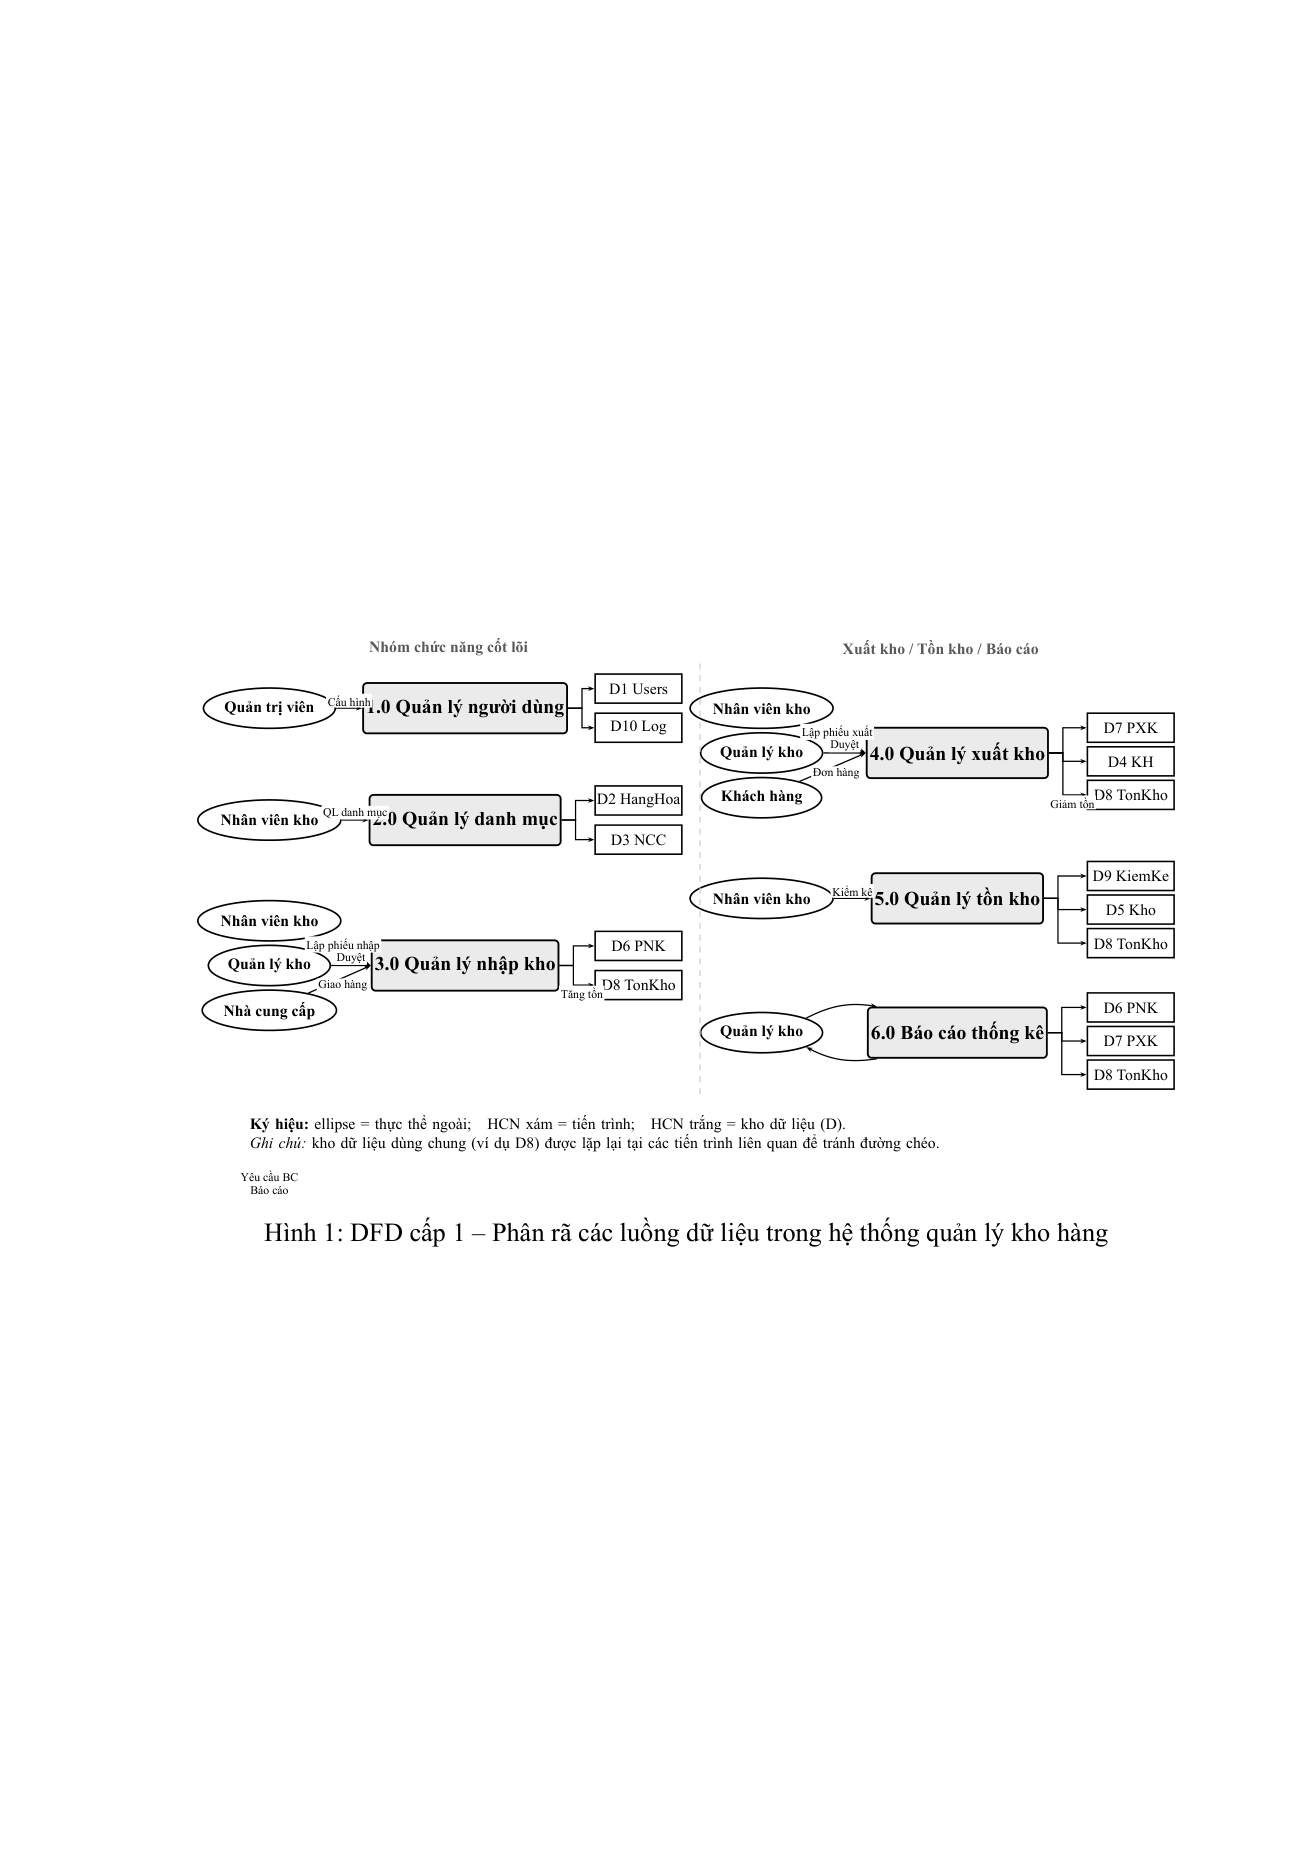
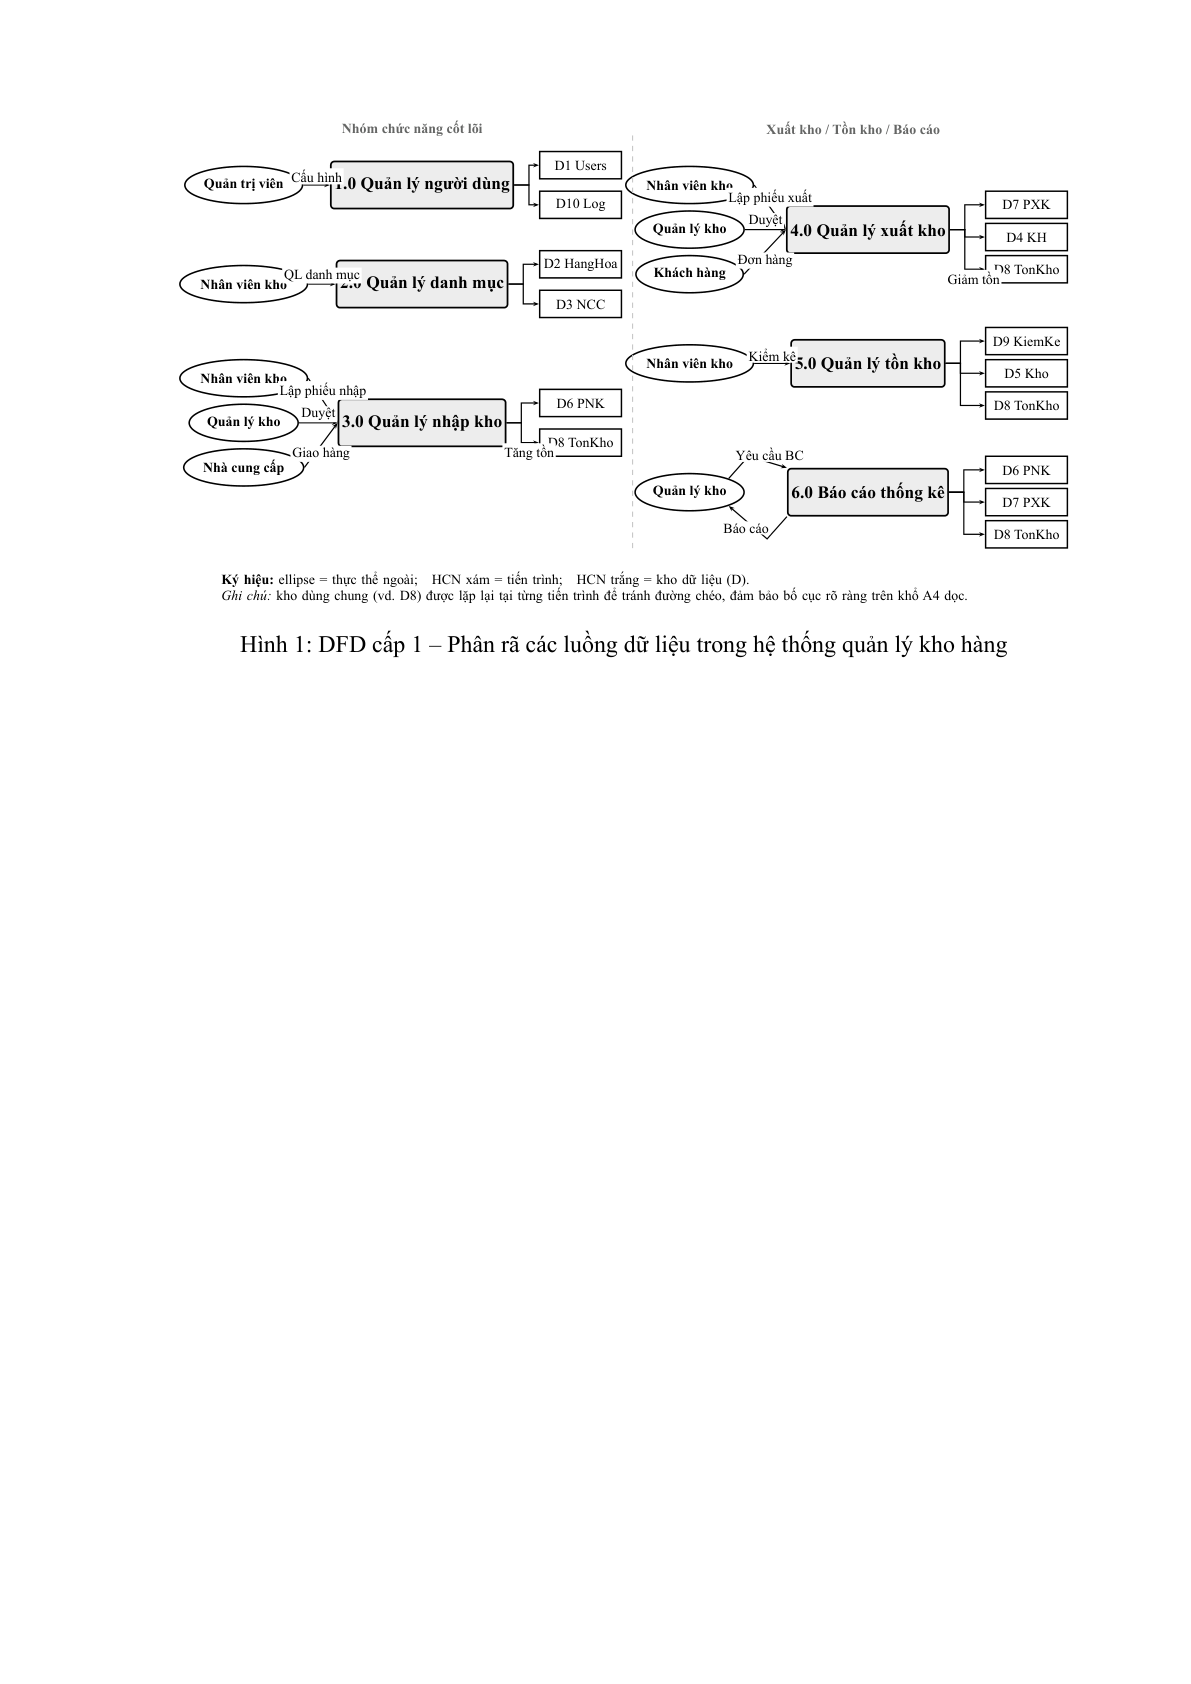
Cập nhật layout DFD Level 1 - tối ưu khoảng cách và căn chỉnh, loại bỏ vertical centering trong wrapper PDF, điều chỉnh font size và spacing cho rõ ràng hơn trên khổ A4 dọc

diff --git a/VIII.HUST/Phân tích và thiết kế hệ thống/BaoCao/diagrams/tex/3.3_dfd_level1.tex b/VIII.HUST/Phân tích và thiết kế hệ thống/BaoCao/diagrams/tex/3.3_dfd_level1.tex
@@ -1,122 +1,121 @@
 \begin{figure}[H]
 \centering
-% Giới hạn theo chiều rộng A4; bố cục 2 cột nên chiều cao vừa một trang
 \resizebox{0.98\textwidth}{!}{%
 \begin{tikzpicture}[
     entity/.style={
-        ellipse, draw=black, fill=white, line width=0.85pt,
-        minimum width=1.9cm, minimum height=0.72cm,
-        font=\scriptsize\bfseries, align=center, inner sep=0.8pt
+        ellipse, draw=black, fill=white, line width=0.9pt,
+        minimum width=2.0cm, minimum height=0.75cm,
+        font=\scriptsize\bfseries, align=center, inner sep=1pt
     },
     process/.style={
-        rectangle, draw=black, fill=gray!15, line width=0.95pt,
-        minimum width=2.9cm, minimum height=0.9cm,
-        font=\footnotesize\bfseries, align=center, rounded corners=2pt, inner sep=1.5pt
+        rectangle, draw=black, fill=gray!14, line width=1.0pt,
+        minimum width=3.0cm, minimum height=0.95cm,
+        font=\footnotesize\bfseries, align=center, rounded corners=2pt, inner sep=2pt
     },
     store/.style={
-        rectangle, draw=black, fill=white, line width=0.8pt,
-        minimum width=1.55cm, minimum height=0.52cm,
-        font=\scriptsize, align=center, inner sep=0.8pt
+        rectangle, draw=black, fill=white, line width=0.85pt,
+        minimum width=1.65cm, minimum height=0.55cm,
+        font=\scriptsize, align=center, inner sep=1pt
     },
-    flow/.style={-{Stealth[scale=0.55]}, line width=0.65pt},
-    elabel/.style={font=\tiny, fill=white, inner sep=0.8pt, align=center},
-    coltitle/.style={font=\scriptsize\bfseries, text=black!65}
+    flow/.style={-{Stealth[scale=0.55]}, line width=0.7pt},
+    elabel/.style={font=\scriptsize, fill=white, inner sep=1pt, align=center},
+    coltitle/.style={font=\scriptsize\bfseries, text=black!60}
 ]
 
 %======================================================================
-% DFD cấp 1 – 2 CỘT × 3 HÀNG (vừa A4 dọc, không chồng chéo)
-% Mỗi khối: Thực thể → Tiến trình → Kho DL
+% DFD cấp 1 – 2 CỘT (vừa A4 dọc, chữ rõ, không chồng)
+% Cấu trúc mỗi khối: Thực thể → Tiến trình → Kho dữ liệu
 %======================================================================
 
-%========== CỘT TRÁI: 1.0 – 2.0 – 3.0 ==========
-\node[coltitle] at (3.2, 9.6) {Nhóm chức năng cốt lõi};
+%===== CỘT TRÁI: 1.0 – 2.0 – 3.0 =====
+\node[coltitle] at (3.8, 10.15) {Nhóm chức năng cốt lõi};
 
-%--- 1.0 ---
-\node[entity]  (e1)  at (0.0, 8.5) {Quản trị viên};
-\node[process] (p1)  at (3.5, 8.5) {1.0 Quản lý người dùng};
-\node[store]   (d1)  at (6.6, 8.85) {D1 Users};
-\node[store]   (d10) at (6.6, 8.15) {D10 Log};
+% 1.0
+\node[entity]  (e1)  at (0.0, 9.0) {Quản trị viên};
+\node[process] (p1)  at (4.0, 9.0) {1.0 Quản lý người dùng};
+\node[store]   (d1)  at (7.3, 9.40) {D1 Users};
+\node[store]   (d10) at (7.3, 8.60) {D10 Log};
 \draw[flow] (e1) -- (p1) node[elabel, midway, above] {Cấu hình};
-\draw[flow] (p1.east) -- ++(0.25,0) |- (d1.west);
-\draw[flow] (p1.east) -- ++(0.25,0) |- (d10.west);
+\draw[flow] (p1.east) -- ++(0.3,0) |- (d1.west);
+\draw[flow] (p1.east) -- ++(0.3,0) |- (d10.west);
 
-%--- 2.0 ---
-\node[entity]  (e2) at (0.0, 6.5) {Nhân viên kho};
-\node[process] (p2) at (3.5, 6.5) {2.0 Quản lý danh mục};
-\node[store]   (d2) at (6.6, 6.85) {D2 HangHoa};
-\node[store]   (d3) at (6.6, 6.15) {D3 NCC};
+% 2.0
+\node[entity]  (e2) at (0.0, 7.0) {Nhân viên kho};
+\node[process] (p2) at (4.0, 7.0) {2.0 Quản lý danh mục};
+\node[store]   (d2) at (7.3, 7.40) {D2 HangHoa};
+\node[store]   (d3) at (7.3, 6.60) {D3 NCC};
 \draw[flow] (e2) -- (p2) node[elabel, midway, above] {QL danh mục};
-\draw[flow] (p2.east) -- ++(0.25,0) |- (d2.west);
-\draw[flow] (p2.east) -- ++(0.25,0) |- (d3.west);
+\draw[flow] (p2.east) -- ++(0.3,0) |- (d2.west);
+\draw[flow] (p2.east) -- ++(0.3,0) |- (d3.west);
 
-%--- 3.0 ---
-\node[entity]  (e3a) at (0.0, 4.7) {Nhân viên kho};
-\node[entity]  (e3b) at (0.0, 3.9) {Quản lý kho};
-\node[entity]  (e3c) at (0.0, 3.1) {Nhà cung cấp};
-\node[process] (p3)  at (3.5, 3.9) {3.0 Quản lý nhập kho};
-\node[store]   (d6)  at (6.6, 4.25) {D6 PNK};
-\node[store]   (d8a) at (6.6, 3.55) {D8 TonKho};
-\draw[flow] (e3a) -- (p3.west) node[elabel, pos=0.55, above] {Lập phiếu nhập};
-\draw[flow] (e3b) -- (p3)        node[elabel, midway, above] {Duyệt};
-\draw[flow] (e3c) -- (p3.west)   node[elabel, pos=0.55, below] {Giao hàng};
-\draw[flow] (p3.east) -- ++(0.25,0) |- (d6.west);
-\draw[flow] (p3.east) -- ++(0.25,0) |- (d8a.west)
-    node[elabel, pos=0.7, below] {Tăng tồn};
+% 3.0
+\node[entity]  (e3a) at (0.0, 5.1) {Nhân viên kho};
+\node[entity]  (e3b) at (0.0, 4.2) {Quản lý kho};
+\node[entity]  (e3c) at (0.0, 3.3) {Nhà cung cấp};
+\node[process] (p3)  at (4.0, 4.2) {3.0 Quản lý nhập kho};
+\node[store]   (d6)  at (7.3, 4.60) {D6 PNK};
+\node[store]   (d8a) at (7.3, 3.80) {D8 TonKho};
+\draw[flow] (e3a.east) -- (p3.west) node[elabel, pos=0.45, above] {Lập phiếu nhập};
+\draw[flow] (e3b) -- (p3)             node[elabel, midway, above] {Duyệt};
+\draw[flow] (e3c.east) -- (p3.west)   node[elabel, pos=0.45, below] {Giao hàng};
+\draw[flow] (p3.east) -- ++(0.3,0) |- (d6.west);
+\draw[flow] (p3.east) -- ++(0.3,0) |- (d8a.west)
+    node[elabel, pos=0.65, below] {Tăng tồn};
 
-%========== CỘT PHẢI: 4.0 – 5.0 – 6.0 ==========
-\node[coltitle] at (12.0, 9.6) {Xuất kho / Tồn kho / Báo cáo};
+%===== CỘT PHẢI: 4.0 – 5.0 – 6.0 =====
+\node[coltitle] at (13.0, 10.15) {Xuất kho / Tồn kho / Báo cáo};
 
-%--- 4.0 ---
-\node[entity]  (e4a) at (8.8, 8.5) {Nhân viên kho};
-\node[entity]  (e4b) at (8.8, 7.7) {Quản lý kho};
-\node[entity]  (e4c) at (8.8, 6.9) {Khách hàng};
-\node[process] (p4)  at (12.3, 7.7) {4.0 Quản lý xuất kho};
-\node[store]   (d7)  at (15.4, 8.15) {D7 PXK};
-\node[store]   (d4)  at (15.4, 7.55) {D4 KH};
-\node[store]   (d8b) at (15.4, 6.95) {D8 TonKho};
-\draw[flow] (e4a) -- (p4.west) node[elabel, pos=0.55, above] {Lập phiếu xuất};
-\draw[flow] (e4b) -- (p4)       node[elabel, midway, above] {Duyệt};
-\draw[flow] (e4c) -- (p4.west)  node[elabel, pos=0.55, below] {Đơn hàng};
-\draw[flow] (p4.east) -- ++(0.25,0) |- (d7.west);
-\draw[flow] (p4.east) -- ++(0.25,0) |- (d4.west);
-\draw[flow] (p4.east) -- ++(0.25,0) |- (d8b.west)
-    node[elabel, pos=0.7, below] {Giảm tồn};
+% 4.0
+\node[entity]  (e4a) at (9.5, 9.0) {Nhân viên kho};
+\node[entity]  (e4b) at (9.5, 8.1) {Quản lý kho};
+\node[entity]  (e4c) at (9.5, 7.2) {Khách hàng};
+\node[process] (p4)  at (13.5, 8.1) {4.0 Quản lý xuất kho};
+\node[store]   (d7)  at (16.8, 8.60) {D7 PXK};
+\node[store]   (d4)  at (16.8, 7.95) {D4 KH};
+\node[store]   (d8b) at (16.8, 7.30) {D8 TonKho};
+\draw[flow] (e4a.east) -- (p4.west) node[elabel, pos=0.45, above] {Lập phiếu xuất};
+\draw[flow] (e4b) -- (p4)            node[elabel, midway, above] {Duyệt};
+\draw[flow] (e4c.east) -- (p4.west)  node[elabel, pos=0.45, below] {Đơn hàng};
+\draw[flow] (p4.east) -- ++(0.3,0) |- (d7.west);
+\draw[flow] (p4.east) -- ++(0.3,0) |- (d4.west);
+\draw[flow] (p4.east) -- ++(0.3,0) |- (d8b.west)
+    node[elabel, pos=0.65, below] {Giảm tồn};
 
-%--- 5.0 ---
-\node[entity]  (e5) at (8.8, 5.1) {Nhân viên kho};
-\node[process] (p5) at (12.3, 5.1) {5.0 Quản lý tồn kho};
-\node[store]   (d9) at (15.4, 5.50) {D9 KiemKe};
-\node[store]   (d5) at (15.4, 4.90) {D5 Kho};
-\node[store]   (d8c) at (15.4, 4.30) {D8 TonKho};
+% 5.0
+\node[entity]  (e5) at (9.5, 5.4) {Nhân viên kho};
+\node[process] (p5) at (13.5, 5.4) {5.0 Quản lý tồn kho};
+\node[store]   (d9) at (16.8, 5.85) {D9 KiemKe};
+\node[store]   (d5) at (16.8, 5.20) {D5 Kho};
+\node[store]   (d8c) at (16.8, 4.55) {D8 TonKho};
 \draw[flow] (e5) -- (p5) node[elabel, midway, above] {Kiểm kê};
-\draw[flow] (p5.east) -- ++(0.25,0) |- (d9.west);
-\draw[flow] (p5.east) -- ++(0.25,0) |- (d5.west);
-\draw[flow] (p5.east) -- ++(0.25,0) |- (d8c.west);
+\draw[flow] (p5.east) -- ++(0.3,0) |- (d9.west);
+\draw[flow] (p5.east) -- ++(0.3,0) |- (d5.west);
+\draw[flow] (p5.east) -- ++(0.3,0) |- (d8c.west);
 
-%--- 6.0 ---
-\node[entity]  (e6) at (8.8, 2.7) {Quản lý kho};
-\node[process] (p6) at (12.3, 2.7) {6.0 Báo cáo thống kê};
-\node[store]   (d6b) at (15.4, 3.15) {D6 PNK};
-\node[store]   (d7b) at (15.4, 2.55) {D7 PXK};
-\node[store]   (d8d) at (15.4, 1.95) {D8 TonKho};
-\draw[flow] (e6) to[bend left=18] (p6)
-    node[elabel, pos=0.55, above] {Yêu cầu BC};
-\draw[flow] (p6) to[bend left=18] (e6)
-    node[elabel, pos=0.55, below] {Báo cáo};
-\draw[flow] (p6.east) -- ++(0.25,0) |- (d6b.west);
-\draw[flow] (p6.east) -- ++(0.25,0) |- (d7b.west);
-\draw[flow] (p6.east) -- ++(0.25,0) |- (d8d.west);
+% 6.0
+\node[entity]  (e6) at (9.5, 2.8) {Quản lý kho};
+\node[process] (p6) at (13.5, 2.8) {6.0 Báo cáo thống kê};
+\node[store]   (d6b) at (16.8, 3.25) {D6 PNK};
+\node[store]   (d7b) at (16.8, 2.60) {D7 PXK};
+\node[store]   (d8d) at (16.8, 1.95) {D8 TonKho};
+\draw[flow] (e6.north east) -- ++(0.55,0.5) -- (p6.north west)
+    node[elabel, pos=0.5, above] {Yêu cầu BC};
+\draw[flow] (p6.south west) -- ++(-0.55,-0.5) -- (e6.south east)
+    node[elabel, pos=0.5, below] {Báo cáo};
+\draw[flow] (p6.east) -- ++(0.3,0) |- (d6b.west);
+\draw[flow] (p6.east) -- ++(0.3,0) |- (d7b.west);
+\draw[flow] (p6.east) -- ++(0.3,0) |- (d8d.west);
 
-%----- Đường phân cột -----
-\draw[gray!40, dashed, line width=0.6pt] (7.7, 9.3) -- (7.7, 1.6);
+% Phân cột
+\draw[gray!45, dashed, line width=0.6pt] (8.4, 10.0) -- (8.4, 1.6);
 
-%----- Chú thích -----
-\node[font=\scriptsize, anchor=west, align=left, text width=15.5cm] at (-0.5, 0.9) {%
+% Chú thích
+\node[font=\scriptsize, anchor=north west, align=left, text width=17cm] at (-0.4, 1.35) {%
   \textbf{Ký hiệu:}
   ellipse = thực thể ngoài;\quad
   HCN xám = tiến trình;\quad
   HCN trắng = kho dữ liệu (D).\\
-  \textit{Ghi chú:} kho dữ liệu dùng chung (ví dụ D8) được lặp lại tại các tiến trình liên quan để tránh đường chéo.
+  \textit{Ghi chú:} kho dùng chung (vd.\ D8) được lặp lại tại từng tiến trình để tránh đường chéo trên khổ A4 dọc.
 };
 
 \end{tikzpicture}%

diff --git a/VIII.HUST/Phân tích và thiết kế hệ thống/BaoCao/diagrams/pdf/pdf_3.3_dfd_level1.tex b/VIII.HUST/Phân tích và thiết kế hệ thống/BaoCao/diagrams/pdf/pdf_3.3_dfd_level1.tex
@@ -2,7 +2,6 @@
 \usepackage{fontspec}
 \setmainfont{Times New Roman}
 \usepackage[vietnamese]{babel}
-% Giống lề báo cáo chính (main.tex)
 \usepackage[left=3cm,right=2cm,top=2cm,bottom=2cm]{geometry}
 \usepackage{graphicx}
 \usepackage{xcolor}
@@ -12,7 +11,6 @@
 \usetikzlibrary{shapes.geometric, arrows.meta, positioning, calc, fit, backgrounds}
 \pagestyle{empty}
 \begin{document}
-\vspace*{\fill}
+\noindent
 \input{../tex/3.3_dfd_level1.tex}
-\vspace*{\fill}
 \end{document}